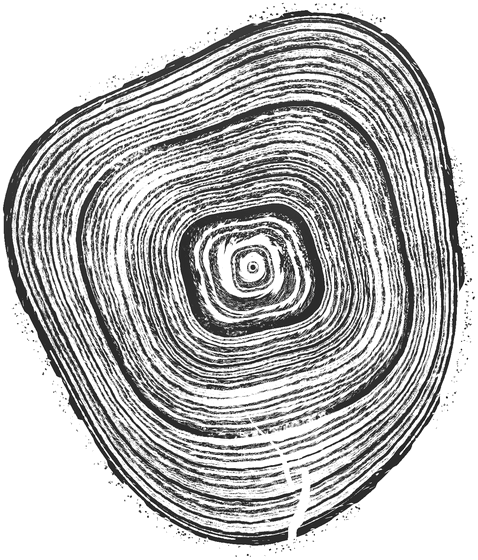
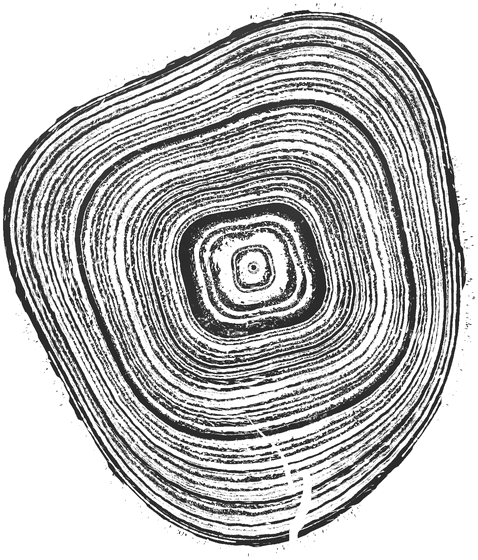
Press: texture laid at each ring's radius (no shear streaks), varied years, grain between bands, black bleed, finer bark and edge speckle, hint only thrice
Claude-Session: https://claude.ai/code/session_01WhGxUDQ2nhT1B8pKnZrdq5

diff --git a/src/rings/press.ts b/src/rings/press.ts
@@ -679,7 +679,12 @@ function zoomAbout(x: number, y: number, f: number): void {
   const cx = x + (v.cx - x) * g2, cy = y + (v.cy - y) * g2;
   look = k <= 1.001 ? { k: 1, ox: 0, oy: 0 } : { k, ox: cx - b.cx, oy: cy - b.cy };
   lookBack = null;
-  if (closer() && !hintedCloser) { hintedCloser = true; say('Double-tap to zoom out.', 3); }
+  // (Said only the first few times ever: after that, it's known.)
+  if (closer() && !hintedCloser) {
+    hintedCloser = true;
+    let n = 0; try { n = Number(localStorage.getItem('annulus.hintedCloser') || 0); localStorage.setItem('annulus.hintedCloser', String(n + 1)); } catch { /* not kept */ }
+    if (n < 3) say('Double-tap to zoom out.', 3);
+  }
 }
 let hintedCloser = false;
 /** The ring closed: the slice laid out for the tree as it is now, eased to from where it was. */
@@ -1680,8 +1685,9 @@ function drawPrint(v: View): void {
   // The bark: a thick, rough band outside the wood, fissured, its inner edge (the living layer) a dark line
   // (in plates: fewer, shallower splits, flatter between; the redwood's thick and stringy; the olive's thin).
   // (The bristlecone's gone where it has died back.)
-  const bark = barkOf(n - 1), T = barkCss(v) * px, lumps = bk.lumps, live = (a: number) => (kind === 'bristlecone' ? 0.08 + 0.92 * smooth((alive(a) - 0.25) / 0.6) : 1);
-  const torn = (a: number) => { const u = (a / TAU) * lumps, i0 = Math.floor(u), f = u - i0, s2 = bk.plate ? (f < 0.85 ? 0 : (f - 0.85) / 0.15) : f * f * (3 - 2 * f); return ((1 - s2) * h1(i0 % lumps) + s2 * h1((i0 + 1) % lumps)) * live(a); };
+  // (A rough, broken band: thinner than the wood's own measure, its outer edge bitten in and out.)
+  const bark = barkOf(n - 1), T = barkCss(v) * px * 0.78, lumps = bk.lumps, live = (a: number) => (kind === 'bristlecone' ? 0.08 + 0.92 * smooth((alive(a) - 0.25) / 0.6) : 1);
+  const torn = (a: number) => { const u = (a / TAU) * lumps, i0 = Math.floor(u), f = u - i0, s2 = bk.plate ? (f < 0.85 ? 0 : (f - 0.85) / 0.15) : f * f * (3 - 2 * f); return Math.max(0, ((1 - s2) * h1(i0 % lumps) + s2 * h1((i0 + 1) % lumps)) * 1.25 - 0.25 + 0.35 * (noise(a * 23 + tree.seed * 0.01) - 0.5)) * live(a); };
   g.beginPath();
   for (let j = 0; j <= K * 3; j++) { const a = (j / (K * 3)) * TAU, [x, y] = pt(a, bark(a), T * (0.7 + 0.55 * torn(a)) * live(a)); if (j) g.lineTo(x, y); else g.moveTo(x, y); }
   for (let j = K * 3; j >= 0; j--) { const a = (j / (K * 3)) * TAU, [x, y] = pt(a, bark(a)); g.lineTo(x, y); }
@@ -1785,13 +1791,15 @@ function drawPrint(v: View): void {
   // Round the edge, a faint grey of ink caught from the block's rim and the bark's loose bits: a fine stipple
   // a few px out, thick in places and none in others.
   if (n) {
-    const bark = barkOf(n - 1), T = barkCss(v) * px, count = Math.round((TAU * scr(Rb) * SPARSE) / (2.2 * px * Z));
+    // (Fine and sparse, each fleck dragged outward as the brayer left it.)
+    const bark = barkOf(n - 1), T = barkCss(v) * px * 0.8, count = Math.round((TAU * scr(Rb) * SPARSE) / (4 * px * Z));
     g.fillStyle = ink(0.45); g.beginPath();
     for (let q = 0; q < count * 1.6; q++) {
       const a = h1(q * 0.917 + tree.seed * 0.01) * TAU;
       if (noise(tree.seed * 0.021 + (a / TAU) * 14) < 0.4) continue;
-      const out = T + (1 + 7 * h1(q * 2.31) ** 1.6) * px * Z, [x, y] = pt(a, bark(a), out), d = (0.35 + 0.5 * h1(q * 5.7)) * px * Z;
-      g.moveTo(x + d, y); g.ellipse(x, y, d, d * (0.45 + 0.5 * h1(q * 8.9)), h1(q * 3.3) * TAU, 0, TAU);
+      const out = T + (1 + 6 * h1(q * 2.31) ** 2) * px * Z, [x, y] = pt(a, bark(a), out), d = (0.18 + 0.3 * h1(q * 5.7) ** 2) * px * Z;
+      const rot = -(a + v.turn), long = d * (1.4 + 1.6 * h1(q * 8.9));
+      g.moveTo(x + Math.cos(rot) * long, y + Math.sin(rot) * long); g.ellipse(x, y, long, d, rot, 0, TAU);
     }
     g.fill();
   }
@@ -1816,7 +1824,7 @@ function drawPrint(v: View): void {
     for (let q = 0; q < 4; q++) {
       const a = h1(tree.seed * 1.7 + q * 4.1) * TAU, d = Rs * (0.15 + 0.6 * h1(q * 3.9 + tree.seed * 0.3)), rr = Rs * (0.18 + 0.22 * h1(q * 6.3 + tree.seed));
       const x = v.cx + d * Math.cos(a), y = v.cy - d * Math.sin(a), rad = g.createRadialGradient(x, y, 0, x, y, rr);
-      rad.addColorStop(0, `rgba(0,0,0,${(0.26 + 0.16 * h1(q * 2.2 + tree.seed)).toFixed(3)})`); rad.addColorStop(0.55, `rgba(0,0,0,${(0.12 + 0.08 * h1(q * 2.2 + tree.seed)).toFixed(3)})`); rad.addColorStop(1, 'rgba(0,0,0,0)');
+      rad.addColorStop(0, `rgba(0,0,0,${(0.08 + 0.06 * h1(q * 2.2 + tree.seed)).toFixed(3)})`); rad.addColorStop(0.55, `rgba(0,0,0,${(0.04 + 0.03 * h1(q * 2.2 + tree.seed)).toFixed(3)})`); rad.addColorStop(1, 'rgba(0,0,0,0)');
       g.fillStyle = rad; g.fillRect(x - rr, y - rr, 2 * rr, 2 * rr);
     }
     g.restore();
@@ -2001,31 +2009,32 @@ function printYears(v: View, oak: Years | null): void {
   // with its rays, pores and real fibre; all in the slice's own px (`U`), so looked into they're the same,
   // larger, never a fresh scatter.)
   const an = oak ? null : ANATOMY[kind] ?? ANATOMY.cherry!, fib = wood.fibre[kind], U = px * Z, conifer = fam() === 'conifer', RAY = RAYS[kind] ?? 0;
-  const drawnInk = (i: number, a: number, r: number, across: number, _heart: boolean, width: number, dx: number, dy: number): number => {
+  const drawnInk = (i: number, a: number, r: number, across: number, _heart: boolean, width: number, dx: number, dy: number, rmid: number): number => {
     const A = an!, rho = r / U;
     // The year: earlywood, a little deeper as it goes, then darkening into the latewood, ending sharp.
     // (As a relief print takes it: the latewood a bold band of ink, its inner edge never ruled but wandering
     // along the year, dry and ragged; the earlywood mostly the paper, the ink bleeding into it in blotches
     // beside the band; and the band itself starved here and there to flecks of paper. As gpu.ts presses it.)
-    const along = a * rho, wd = Math.max(1e-3, width);
-    const share = conifer ? Math.min(0.85, A.share * (0.6 + 0.8 * calmOf(i))) : A.share;
-    const rag = 0.5 * (vnoise(along * 0.07 + i * 7.1, i * 3.3) - 0.5) + 0.3 * (vnoise(along * 0.3 + i * 2.3, i * 1.7 + 5) - 0.5) + 0.2 * (vnoise(along * 1.1 + i * 0.7, rho * 0.4) - 0.5);
+    // (Laid round the ring at its own radius, never the point's, so nothing shears into slants; and closing on
+    // itself where the angle comes round.)
+    const rr = rmid, wd = Math.max(1e-3, width), wrap = smooth((a - (TAU - 0.4)) / 0.4);
+    const rn = (kx: number, ox: number, y: number) => { const n0 = vnoise(a * rr * kx + ox, y); return wrap > 0 ? n0 + (vnoise((a - TAU) * rr * kx + ox, y) - n0) * wrap : n0; };
+    // (Every year its own: some thin and pale, some broad and heavy.)
+    const yv = h1(i * 1.37 + 0.71), heavy = 0.82 + 0.3 * h1(i * 2.91 + 0.3);
+    const share = (conifer ? Math.min(0.85, A.share * (0.6 + 0.8 * calmOf(i))) : A.share) * (0.65 + 0.7 * yv);
+    const rag = 0.5 * (rn(0.07, i * 7.1, i * 3.3) - 0.5) + 0.3 * (rn(0.3, i * 2.3, i * 1.7 + 5) - 0.5) + 0.2 * (rn(1.1, i * 0.7, rho * 0.4) - 0.5);
     const start = 1 - share * (1 + 1.4 * rag), soft = Math.max(0.035, (0.7 * U) / wd);
-    // (Its edge frayed finely, as dry ink tears at the grain.)
-    const fray = vnoise(along * 0.9 + i * 3.1, rho * 0.8) - 0.5 + 0.6 * (vnoise(along * 2.6 + i, rho * 2.2 + 3) - 0.5);
+    // (Its edge torn in short, irregular bites.)
+    const fray = rn(0.7, i * 3.1, rho * 0.7) - 0.5 + 0.7 * (rn(1.9, i, rho * 1.9 + 3) - 0.5);
     const band = smooth((across - start) / soft + 0.5 + (((1.6 * U) / wd) * fray) / soft * 0.5);
-    let ink = A.early * 0.35 * (0.8 + 0.4 * across) + (A.late * 1.08 - A.early * 0.35) * band;
-    // (Bled into the earlywood beside the band: blotches, thicker nearer it.)
+    let ink = A.early * 0.3 * (0.8 + 0.4 * across) + (A.late * 1.08 * heavy - A.early * 0.3) * band;
+    // (Bled beside it in black specks and blots, never a grey; starved inside it to small specks of paper.)
     const near = smooth((across - (start - 0.45)) / 0.45) * (1 - band);
-    ink += 0.95 * near * smooth((vnoise(along * 0.18 + i * 4.3, rho * 0.45 + i) - 0.42) / 0.16) * (0.6 + 0.4 * vnoise(along * 1.4, rho * 1.4 + i));
-    // (Starved inside the band: flecks and short streaks of paper; and finely all through it, the pores.)
-    ink *= 1 - 0.8 * band * smooth((vnoise(along * 1.1 + i * 9.7, rho * 1.9) - 0.68) / 0.08);
-    ink *= 1 - 0.7 * band * smooth((vnoise(along * 2.4 + i * 5.9, rho * 2.6 + 11) - 0.74) / 0.07);
-    // The real fibre, streaking along the year.
-    if (fib && A.fibre) ink *= 1 + A.fibre * 0.45 * (tile(fib, a * rho * 0.5, rho * 0.5) - 0.5) * 2;
-    // (And the wood's own fine grain, finer than the scan holds: long thin streaks along the year, in the wood's
-    // place, too fine to see whole and showing as it's looked into, so looking closer finds more, never a blur.)
-    ink *= 1 + 0.2 * (vnoise(rho * 1.6 + i * 5.3, a * rho * 0.09) - 0.5) * 2 * (0.5 + 0.5 * vnoise(rho * 0.25, a * rho * 0.03 + 9.1));
+    ink += near * smooth((rn(0.5, i * 4.3, rho * 0.5 + i) - 0.74) / 0.04) * smooth((rn(1.6, 0, rho * 1.6 + i) - 0.35) / 0.05);
+    ink *= 1 - band * smooth((rn(1.4, i * 9.7, rho * 1.4) - 0.74) / 0.05);
+    ink *= 1 - 0.8 * band * smooth((rn(3.1, i * 5.9, rho * 3.1 + 11) - 0.8) / 0.05);
+    // (The pale wood between: the grain's fine lines faintly inked along the year, broken.)
+    ink = Math.max(ink, (1 - band) * 0.9 * smooth((rn(0.6, i * 2.7, rho * 1.8 + 7) - 0.9) / 0.03) * smooth((rn(0.25, 3, rho * 0.25) - 0.55) / 0.1));
     if (A.mottle) ink *= 1 + A.mottle * (vnoise(dx / (22 * U) + 3.1, dy / (22 * U) + 7.7) - 0.5) * 2;
     // Pores: open vessels, paper in the print, scattered (or gathered at the year's start), in the wood's place.
     if (A.pores) {
@@ -2093,7 +2102,7 @@ function printYears(v: View, oak: Years | null): void {
         // (Oak's and ash's springwood opened toward the paper, their latewood kept heavy: the year reads as a band,
         // never a field of charcoal. A conifer's scanned year is already pale in its earlywood.)
         ink = (fam() === 'ring' ? Math.pow(ink, 1 + 1.2 * (1 - smooth((across - 0.35) / 0.45))) : ink) * tone(i);
-      } else ink = drawnInk(i, a, r, across, heart, rout - rin, dx, dy) * tone(i);
+      } else ink = drawnInk(i, a, r, across, heart, rout - rin, dx, dy, (rin + rout) / 2 / U) * tone(i);
       if (!heart && thin[i] > 0) {
         // (As dark as the wide years: lines as wide as some three-fifths of the space they stand for.)
         ink *= 1 - 0.65 * thin[i];
@@ -2224,7 +2233,7 @@ function inkGrain(c: HTMLCanvasElement, v: View, band?: [number, number], soft =
       let took = val;
       if (sea && field) {
         const u = mx * perTex, w = my * perTex;
-        took = val * (0.62 + 0.48 * tile(sea, u + 17, w + 31) * (0.75 + 0.25 * tile(field, (u * fc - w * fs) * 0.8, (u * fs + w * fc) * 0.8)));
+        took = val * (0.84 + 0.2 * tile(sea, u + 17, w + 31) * (0.75 + 0.25 * tile(field, (u * fc - w * fs) * 0.8, (u * fs + w * fc) * 0.8)));
         // (Looked at closer than the print's own grain: finer grain, at the screen's scale, so it stays crisp.)
         if (close > 0) took *= 1 + close * 0.22 * (vnoise(mx * cg + 3.3, my * cg + 7.1) - 0.5);
       }

diff --git a/src/rings/gpu.ts b/src/rings/gpu.ts
@@ -42,6 +42,14 @@ uniform int uLvO[12], uLvW[12], uLvH[12], uLvRows[12];
 uniform float uX0, uY0, uH, uCx, uCy, uTurn, uRmax, uWA, uWL, uWL2, uU, uPx, uW0, uRay, uRun0, uRun1, uSparse, uInk;
 uniform float uEarly, uLate, uShare, uEdge, uPores, uPoreR, uPoreEarly, uFibre, uMottle, uSharp;
 uniform vec3 uInkRGB;
+// (Noise laid round the ring at its own radius rr (never the point's, which shears it into slants), kx to the
+// slice px along it, closing on itself: across the angle's wrap the
+// far side's run blended in, so there's never a seam where the angle comes round.)
+float ringN(float a, float rho, float kx, float ox, float y) {
+  float w = sm((a - (TAU - 0.4)) / 0.4);
+  float n0 = vnoise(a * rho * kx + ox, y);
+  return w > 0. ? mix(n0, vnoise((a - TAU) * rho * kx + ox, y), w) : n0;
+}
 float rad(int i, int b, float f) { int k = (i + 1) * (uB + 1) + b; float p = at(uRad, k); return p + (at(uRad, k + 1) - p) * f; }
 // (Each ring's facts: 0 reps, 1 off, 2 year, 3 level, 4 runR, 5 thin, 6 edge, 7 half, 8 edgeIn, 9 edgeOut, 10 tone, 11 calm.)
 float R(int i, int k) { return at(uRing, i * 12 + k); }
@@ -70,28 +78,29 @@ float rayAt(float a, float rho) {
   }
   return best;
 }
-float drawnInk(int i, float a, float r, float across, bool heart, float width, float dx, float dy) {
+float drawnInk(int i, float a, float r, float across, bool heart, float width, float dx, float dy, float rr) {
   float rho = r / uU, fi = float(i);
   // (As a relief print takes it: the latewood a bold band of ink, its inner edge never ruled but wandering
   // along the year, dry and ragged; the earlywood mostly the paper, the ink bleeding into it in blotches
   // beside the band; and the band itself starved here and there to flecks of paper.)
-  float along = a * rho, w = max(1e-3, width);
-  float share = uConifer == 1 ? min(0.85, uShare * (0.6 + 0.8 * R(i, 11))) : uShare;
-  float rag = 0.5 * (vnoise(along * 0.07 + fi * 7.1, fi * 3.3) - 0.5) + 0.3 * (vnoise(along * 0.3 + fi * 2.3, fi * 1.7 + 5.) - 0.5) + 0.2 * (vnoise(along * 1.1 + fi * 0.7, rho * 0.4) - 0.5);
+  float w = max(1e-3, width);
+  // (Every year its own: some thin and pale, some broad and heavy, as the day it was drawn.)
+  float yv = h1(fi * 1.37 + 0.71), share = (uConifer == 1 ? min(0.85, uShare * (0.6 + 0.8 * R(i, 11))) : uShare) * (0.65 + 0.7 * yv), heavy = 0.82 + 0.3 * h1(fi * 2.91 + 0.3);
+  float rag = 0.5 * (ringN(a, rr, 0.07, fi * 7.1, fi * 3.3) - 0.5) + 0.3 * (ringN(a, rr, 0.3, fi * 2.3, fi * 1.7 + 5.) - 0.5) + 0.2 * (ringN(a, rr, 1.1, fi * 0.7, rho * 0.4) - 0.5);
   float start = 1. - share * (1. + 1.4 * rag), soft = max(0.035, 0.7 * uU / w);
-  // (Its edge frayed finely, as dry ink tears at the grain: a pixel or two in and out, quickly along it.)
-  float fray = (vnoise(along * 0.9 + fi * 3.1, rho * 0.8) - 0.5) + 0.6 * (vnoise(along * 2.6 + fi, rho * 2.2 + 3.) - 0.5);
+  // (Its edge torn in short, irregular bites, as dry ink tears at the grain: never streaked along it.)
+  float fray = (ringN(a, rr, 0.7, fi * 3.1, rho * 0.7) - 0.5) + 0.7 * (ringN(a, rr, 1.9, fi, rho * 1.9 + 3.) - 0.5);
   float band = sm((across - start) / soft + 0.5 + 1.6 * uU / w * fray / soft * 0.5);
-  float ink = uEarly * 0.35 * (0.8 + 0.4 * across) + (uLate * 1.08 - uEarly * 0.35) * band;
+  float ink = uEarly * 0.3 * (0.8 + 0.4 * across) + (uLate * 1.08 * heavy - uEarly * 0.3) * band;
   // (Bled into the earlywood beside the band: blotches, thicker nearer it.)
   float near = sm((across - (start - 0.45)) / 0.45) * (1. - band);
-  ink += 0.95 * near * sm((vnoise(along * 0.18 + fi * 4.3, rho * 0.45 + fi) - 0.42) / 0.16) * (0.6 + 0.4 * vnoise(along * 1.4, rho * 1.4 + fi));
-  // (Starved inside the band: flecks and short streaks of paper along the grain.)
-  ink *= 1. - 0.8 * band * sm((vnoise(along * 1.1 + fi * 9.7, rho * 1.9) - 0.68) / 0.08);
-  // (And finely, all through it, the wood's own pores and grain as specks of paper.)
-  ink *= 1. - 0.7 * band * sm((vnoise(along * 2.4 + fi * 5.9, rho * 2.6 + 11.) - 0.74) / 0.07);
-  if (uHasFib == 1 && uFibre > 0.) ink *= 1. + uFibre * 0.45 * (tileL(uFib, uFibW, uFibH, a * rho * 0.5, rho * 0.5) - 0.5) * 2.;
-  ink *= 1. + 0.2 * (vnoise(rho * 1.6 + fi * 5.3, a * rho * 0.09) - 0.5) * 2. * (0.5 + 0.5 * vnoise(rho * 0.25, a * rho * 0.03 + 9.1));
+  // (Ink taken or not: the bleed is black specks and blots, never a grey.)
+  ink += near * sm((ringN(a, rr, 0.5, fi * 4.3, rho * 0.5 + fi) - 0.74) / 0.04) * sm((ringN(a, rr, 1.6, 0., rho * 1.6 + fi) - 0.35) / 0.05);
+  // (Starved inside the band: small specks of paper, as round as long, never streaks.)
+  ink *= 1. - band * sm((ringN(a, rr, 1.4, fi * 9.7, rho * 1.4) - 0.74) / 0.05);
+  ink *= 1. - 0.8 * band * sm((ringN(a, rr, 3.1, fi * 5.9, rho * 3.1 + 11.) - 0.8) / 0.05);
+  // (The pale wood between, never bare: the grain's fine lines faintly inked along the year, broken.)
+  ink = max(ink, (1. - band) * 0.9 * sm((ringN(a, rr, 0.6, fi * 2.7, rho * 1.8 + 7.) - 0.9) / 0.03) * sm((ringN(a, rr, 0.25, 3., rho * 0.25) - 0.55) / 0.1));
   if (uMottle > 0.) ink *= 1. + uMottle * (vnoise(dx / (22. * uU) + 3.1, dy / (22. * uU) + 7.7) - 0.5) * 2.;
   if (uPores > 0.) {
     float C = 3., ci = floor(rho / C), cj = floor(a * rho / C), hh = h1(ci * 7.31 + cj * 1.713 + fi * 0.37);
@@ -132,7 +141,7 @@ void main() {
     ink = sampleL(uLev, uLvO[li], uLvW[li], uLvH[li], ((a / TAU) * reps * uW0 + R(i, 1) + wob * reps * 0.15) * float(uLvW[li]) / uW0, float(year) * rows + across * rows, float(year) * rows, rows);
     if (uFamRing == 1) ink = pow(max(0., ink), 1. + 1.2 * (1. - sm((across - 0.35) / 0.45)));
     ink *= R(i, 10);
-  } else ink = drawnInk(i, a, r, across, heart, rout - rin, dx, dy) * R(i, 10);
+  } else ink = drawnInk(i, a, r, across, heart, rout - rin, dx, dy, (rin + rout) * 0.5 / uU) * R(i, 10);
   if (!heart && R(i, 5) > 0.) {
     ink *= 1. - 0.65 * R(i, 5);
     int jo = int(R(i, 9)), ji = int(R(i, 8));
@@ -184,7 +193,7 @@ void main() {
   float took = val;
   if (uHasSea == 1) {
     float u = mx * uPerTex, w = my * uPerTex;
-    took = val * (0.62 + 0.48 * tileL(uSea, uSeaW, uSeaH, u + 17., w + 31.) * (0.75 + 0.25 * tileL(uField, uFieldW, uFieldH, (u * uFc - w * uFs) * 0.8, (u * uFs + w * uFc) * 0.8)));
+    took = val * (0.84 + 0.2 * tileL(uSea, uSeaW, uSeaH, u + 17., w + 31.) * (0.75 + 0.25 * tileL(uField, uFieldW, uFieldH, (u * uFc - w * uFs) * 0.8, (u * uFs + w * uFc) * 0.8)));
     if (uClose > 0.) took *= 1. + uClose * 0.22 * (vnoise(mx * uCg + 3.3, my * uCg + 7.1) - 0.5);
   }
   float thr = 0.5 + (uHasSea == 1 ? 0.22 : 0.95) * (t1 - 0.5) + 0.2 * (vnoise(mx * uLow + 40., my * uLow + 11.) - 0.5) + saw;

diff --git a/RINGS-HISTORY.md b/RINGS-HISTORY.md
@@ -239,3 +239,12 @@ At about 5× zoom, the time to press the whole screen fell to roughly a quarter 
 **October 18: the new year there at once.** Closing a loop showed the old slice inside the loop for a moment while the new year was pressed a strip at a time, then the year popped in. On the graphics chip the year just closed is now pressed at once, so the loop dries onto a print that already holds it. Other presses still come a strip a frame. A canvas still fading out, or shown by another slot, is never pressed into, and bands pressed for a view the slice has moved from are never laid over it.
 
 **October 18: no bar while it sharpens.** While a print was pressed again, its finished bands were laid over the softer picture from the middle out. On a phone, where that takes many frames, the edge between them showed as a horizontal bar twitching up and down. A sharper print is now pressed out of sight and fades in once it's whole. On the graphics chip, a re-press now covers the whole picture, never leaving a stretched copy's edge in the margin to drift into view.
+
+**October 18: a print, looked into.** Six changes after looking closely at a phone screenshot beside the artist's prints:
+- The ink's texture is now laid round each ring at the ring's own radius. Before, it used each pixel's distance from the heart, which sheared it into slanted streaks that read as brush strokes. The bands' edges tear in short bites, and the paper shows through as small specks, not dashes.
+- Every year is its own: some thin and pale, some broad and heavy.
+- The pale wood between the bands carries the grain's fine lines, faintly, along the year.
+- Bleed beside a band is black specks and blots, never grey. The starved patches are much fainter, and the ink-take texture is gentler.
+- The bark is a thinner, more broken band, and the stray ink round it is finer, sparser and dragged outward.
+- "Double-tap to zoom out" is said only the first three times ever.
+- The CPU press matches, and the choosing slices were pressed again.
